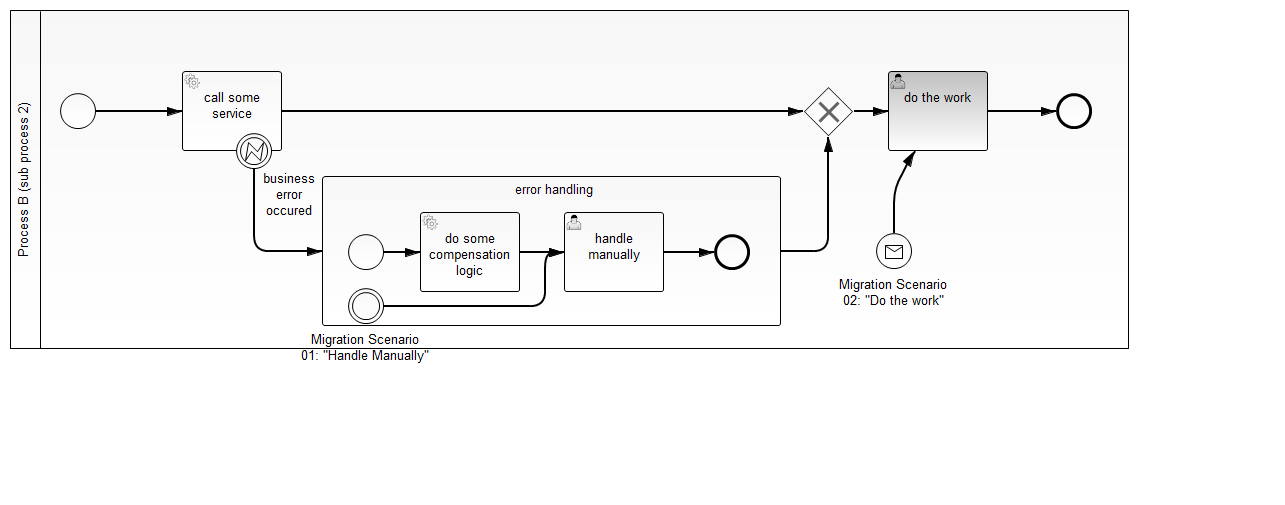
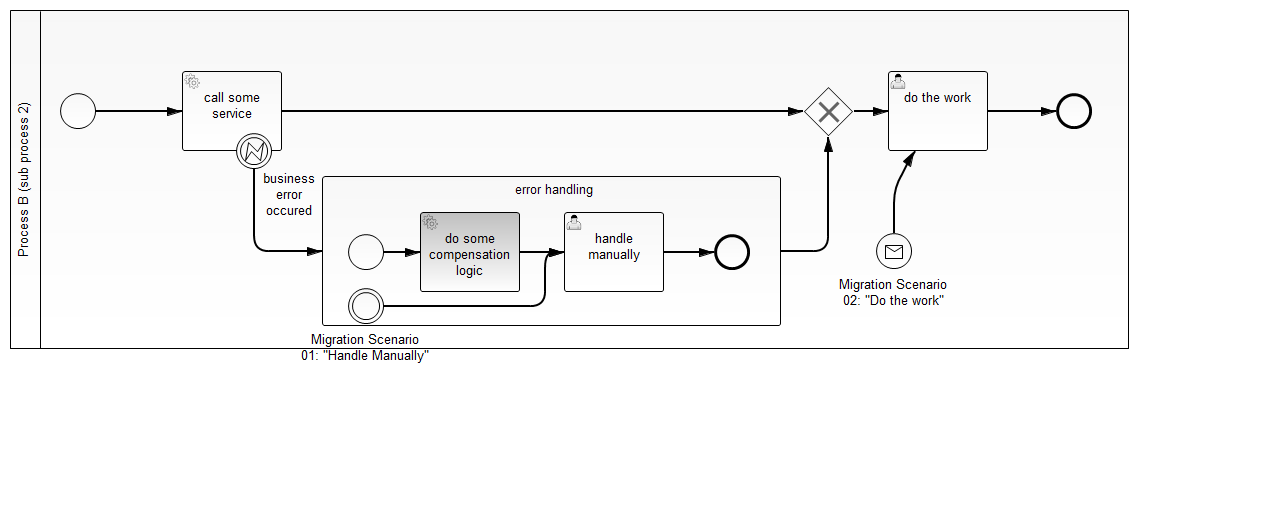
extended test cases, error sub process currently not yet working correctly

Changed region(s): [[0.6848, 0.1188, 0.7782, 0.2376], [0.3113, 0.4158, 0.4047, 0.5347]]

diff --git a/snippets/migrate-third-party-to-camunda/src/test/java/com/camunda/demo/migration/MigrationTestCase.java b/snippets/migrate-third-party-to-camunda/src/test/java/com/camunda/demo/migration/MigrationTestCase.java
@@ -1,9 +1,7 @@
 package com.camunda.demo.migration;
 
-import static org.camunda.bpm.engine.test.assertions.ProcessEngineAssertions.assertThat;
-import static org.camunda.bpm.engine.test.assertions.ProcessEngineAssertions.init;
-import static org.camunda.bpm.engine.test.assertions.ProcessEngineTests.runtimeService;
-import static org.camunda.bpm.engine.test.assertions.ProcessEngineTests.withVariables;
+import static org.camunda.bpm.engine.test.assertions.ProcessEngineAssertions.*;
+import static org.camunda.bpm.engine.test.assertions.ProcessEngineTests.*;
 
 import org.camunda.bpm.engine.ProcessEngine;
 import org.camunda.bpm.engine.impl.cfg.StandaloneInMemProcessEngineConfiguration;
@@ -56,9 +54,63 @@ public class MigrationTestCase extends ProcessEngineTestCase {
   }
 
   @Deployment(resources = {"super-process.bpmn", "called-process-1.bpmn", "called-process-2.bpmn"})
-  public void testMigrationScenario01() {
-    // Scenario 01: Jump into second hierarchy and there into the Human Task within a Sub Process started by an error
+  public void testNormalRun() {
+    ProcessInstance piSuper = runtimeService().startProcessInstanceByKey(
+        PROCESS_DEFINITION_KEY_SUPER, withVariables("decision", "A"));
     
+    assertThat(piSuper).isStarted().isNotEnded() // 
+      .isWaitingAtExactly("CallActivityProcessA") //
+      .hasPassed("ServiceTaskCallSomeService");
+    
+    // search for existing called process instance and assert it as well
+    ProcessInstance piA = runtimeService().createProcessInstanceQuery().superProcessInstanceId(piSuper.getId()).singleResult();
+    assertThat(piA).isStarted().isNotEnded() //
+      .isWaitingAtExactly("UserTaskDoSomething") //
+      .task();
+    complete(task());
+    
+    // and the next pi down the hierarchy
+    ProcessInstance piB = runtimeService().createProcessInstanceQuery().superProcessInstanceId(piA.getId()).singleResult();
+    assertThat(piB).isStarted().isNotEnded() //
+      .isWaitingAtExactly("UserTaskDoTheWork") //
+      .hasPassed("ServiceTaskWithError") //
+      .task();
+    complete(task());
+    
+    assertThat(piB).isEnded();
+    assertThat(piA).isEnded();
+    assertThat(piSuper).isEnded();
+  }
+  
+  @Deployment(resources = {"super-process.bpmn", "called-process-2.bpmn"})
+  public void testErrorHandlingSubProcess() {
+    ProcessInstance piSuper = runtimeService().startProcessInstanceByKey(
+        PROCESS_DEFINITION_KEY_SUPER, withVariables("decision", "B", "throwError", Boolean.TRUE));
+    
+    assertThat(piSuper).isStarted().isNotEnded() // 
+      .isWaitingAtExactly("CallActivityProcessB") //
+      .hasPassed("ServiceTaskCallSomeService");
+        
+    // sub process
+    ProcessInstance piB = runtimeService().createProcessInstanceQuery().superProcessInstanceId(piSuper.getId()).singleResult();
+    assertThat(piB).isStarted().isNotEnded() //
+      .isWaitingAtExactly("UserTaskHandleManually") //
+      .hasPassed("ServiceTaskWithError", "ServiceTaskDoCompensationLogic") //
+      .task();
+    complete(task());
+
+    assertThat(piB) //
+      .isWaitingAtExactly("UserTaskDoTheWork") //
+      .task();
+    complete(task());
+
+    assertThat(piB).isEnded();
+    assertThat(piSuper).isEnded();
+  }  
+    
+  @Deployment(resources = {"super-process.bpmn", "called-process-1.bpmn", "called-process-2.bpmn"})
+  public void testMigrationScenario01() {
+    // Scenario 01: Jump into second hierarchy and there into the Human Task within a Sub Process started by an error    
     ProcessInstance piSuper = runtimeService().startProcessInstanceByMessage(
         PROCESS_DEFINITION_KEY_SUPER + "#MIGRATION_SCENARIO_01", withVariables("migrationScenario", "01"));
 
@@ -77,7 +129,16 @@ public class MigrationTestCase extends ProcessEngineTestCase {
     ProcessInstance piB = runtimeService().createProcessInstanceQuery().superProcessInstanceId(piA.getId()).singleResult();
     assertThat(piB).isStarted().isNotEnded().isWaitingAtExactly("UserTaskHandleManually");
 
+    // now continue in the process execution
+    assertThat(piB).task("UserTaskHandleManually");
+    complete(task());
     
+    assertThat(piB).isNotEnded().isWaitingAtExactly("UserTaskDoTheWork").task("UserTaskDoTheWork");
+    complete(task());
+
+    assertThat(piB).isEnded();
+    assertThat(piA).isEnded();
+    assertThat(piSuper).isEnded();
   }
 
   @Deployment(resources = {"super-process.bpmn", "called-process-1.bpmn", "called-process-2.bpmn"})
@@ -97,6 +158,13 @@ public class MigrationTestCase extends ProcessEngineTestCase {
     // and the next pi down the hierarchy
     ProcessInstance piB = runtimeService().createProcessInstanceQuery().superProcessInstanceId(piSuper.getId()).singleResult();
     assertThat(piB).isStarted().isNotEnded().isWaitingAtExactly("UserTaskDoTheWork");
+    
+    // now continue in the process execution
+    assertThat(piB).task("UserTaskDoTheWork");
+    complete(task());
+
+    assertThat(piB).isEnded();
+    assertThat(piSuper).isEnded();
   }
  
 }

diff --git a/snippets/migrate-third-party-to-camunda/src/main/java/com/camunda/demo/migration/MigrationEnabledCallActivityBehavior.java b/snippets/migrate-third-party-to-camunda/src/main/java/com/camunda/demo/migration/MigrationEnabledCallActivityBehavior.java
@@ -13,6 +13,7 @@ import org.camunda.bpm.engine.impl.bpmn.behavior.AbstractBpmnActivityBehavior;
 import org.camunda.bpm.engine.impl.bpmn.behavior.CallActivityBehavior;
 import org.camunda.bpm.engine.impl.bpmn.parser.DataAssociation;
 import org.camunda.bpm.engine.impl.context.Context;
+import org.camunda.bpm.engine.impl.javax.el.PropertyNotFoundException;
 import org.camunda.bpm.engine.impl.persistence.entity.ExecutionEntity;
 import org.camunda.bpm.engine.impl.pvm.PvmProcessInstance;
 import org.camunda.bpm.engine.impl.pvm.delegate.ActivityExecution;
@@ -106,22 +107,35 @@ public class MigrationEnabledCallActivityBehavior extends CallActivityBehavior {
     // UNCHANGED TILL HERE!
     
     // now we create the process instance on a different activity steered by the expression:
-    String migrationScenario = (String) migrationScenarioExpression.getValue(execution);
+    String migrationScenario = null;
+    try {
+      migrationScenario = (String) migrationScenarioExpression.getValue(execution);
+    }
+    catch (ProcessEngineException ex) {
+      // might be the case if the process run in "normal" mode and some variables have not be passed id
+    }
     
-    // now there are two possibilities: 
-    // 1. The process contains a matching Message Start Event
-    // 2. The process contains a matching intermediate event
-    ActivityImpl startActivity = processDefinition.findActivity("MIGRATION_SCENARIO_" + migrationScenario);
-    
-    // handing over the initial activity is missing in PVM API 
-    ExecutionEntity subProcessInstance = (ExecutionEntity) execution.createSubProcessInstance(processDefinition, businessKey);
-    // so we do it the hard way afterwards
-    Field processInstanceStartContextField = ExecutionEntity.class.getDeclaredField("processInstanceStartContext");
-    processInstanceStartContextField.setAccessible(true);
-    processInstanceStartContextField.set(subProcessInstance, new ProcessInstanceStartContext(startActivity));
-    
-    // and start normally
-    subProcessInstance.start(callActivityVariables);
+    if (migrationScenario==null) {
+      // normal behavior
+      PvmProcessInstance subProcessInstance = execution.createSubProcessInstance(processDefinition, businessKey);
+      subProcessInstance.start(callActivityVariables);
+    }
+    else {
+      // now there are two possibilities: 
+      // 1. The process contains a matching Message Start Event
+      // 2. The process contains a matching intermediate event
+      ActivityImpl startActivity = processDefinition.findActivity("MIGRATION_SCENARIO_" + migrationScenario);
+      
+      // handing over the initial activity is missing in PVM API 
+      ExecutionEntity subProcessInstance = (ExecutionEntity) execution.createSubProcessInstance(processDefinition, businessKey);
+      // so we do it the hard way afterwards
+      Field processInstanceStartContextField = ExecutionEntity.class.getDeclaredField("processInstanceStartContext");
+      processInstanceStartContextField.setAccessible(true);
+      processInstanceStartContextField.set(subProcessInstance, new ProcessInstanceStartContext(startActivity));
+      
+      // and start normally
+      subProcessInstance.start(callActivityVariables);
+    }
   }
 
   public static void copyProperty(String name, Class clazz, CallActivityBehavior from, MigrationEnabledCallActivityBehavior to, boolean addCopy) {

diff --git a/snippets/migrate-third-party-to-camunda/src/main/java/com/camunda/demo/migration/CamundaBpmProcessApplication.java b/snippets/migrate-third-party-to-camunda/src/main/java/com/camunda/demo/migration/CamundaBpmProcessApplication.java
@@ -1,33 +1,12 @@
 package com.camunda.demo.migration;
 
-import java.util.HashMap;
-import java.util.Map;
-
-import org.camunda.bpm.application.PostDeploy;
 import org.camunda.bpm.application.ProcessApplication;
 import org.camunda.bpm.application.impl.ServletProcessApplication;
-import org.camunda.bpm.engine.ProcessEngine;
 
 /**
  * Process Application exposing this application's resources the process engine. 
  */
 @ProcessApplication
 public class CamundaBpmProcessApplication extends ServletProcessApplication {
-
-  private static final String PROCESS_DEFINITION_KEY = "migration-example-pa";
-
-  /**
-   * In a @PostDeploy Hook you can interact with the process engine and access 
-   * the processes the application has deployed. 
-   */
-  @PostDeploy
-  public void onDeploymentFinished(ProcessEngine processEngine) {
-
-    // start an initial process instance
-//    Map<String, Object> variables = new HashMap<String, Object>();
-//    variables.put("name", "John");
-//    
-//    processEngine.getRuntimeService().startProcessInstanceByKey(PROCESS_DEFINITION_KEY, variables);
-  }
 
 }

diff --git a/snippets/migrate-third-party-to-camunda/src/main/java/com/camunda/demo/migration/MigrationValidationDelegate.java b/snippets/migrate-third-party-to-camunda/src/main/java/com/camunda/demo/migration/MigrationValidationDelegate.java
@@ -1,0 +1,24 @@
+package com.camunda.demo.migration;
+
+import org.camunda.bpm.engine.delegate.BpmnError;
+import org.camunda.bpm.engine.delegate.DelegateExecution;
+import org.camunda.bpm.engine.delegate.JavaDelegate;
+
+public class MigrationValidationDelegate implements JavaDelegate {
+
+  @Override
+  public void execute(DelegateExecution execution) throws Exception {
+    String migrationScenario = (String) execution.getVariable("migrationScenario");
+    if (migrationScenario!=null) {
+      throw new RuntimeException("ServiceTasks should not be executed from a migration Scenario");
+    }
+
+    if ("ServiceTaskWithError".equals(execution.getCurrentActivityId())) {
+      Boolean throwError = (Boolean) execution.getVariable("throwError");
+      if (throwError!=null && throwError) {
+        throw new BpmnError("ERROR");
+      }
+    }
+  }
+
+}
